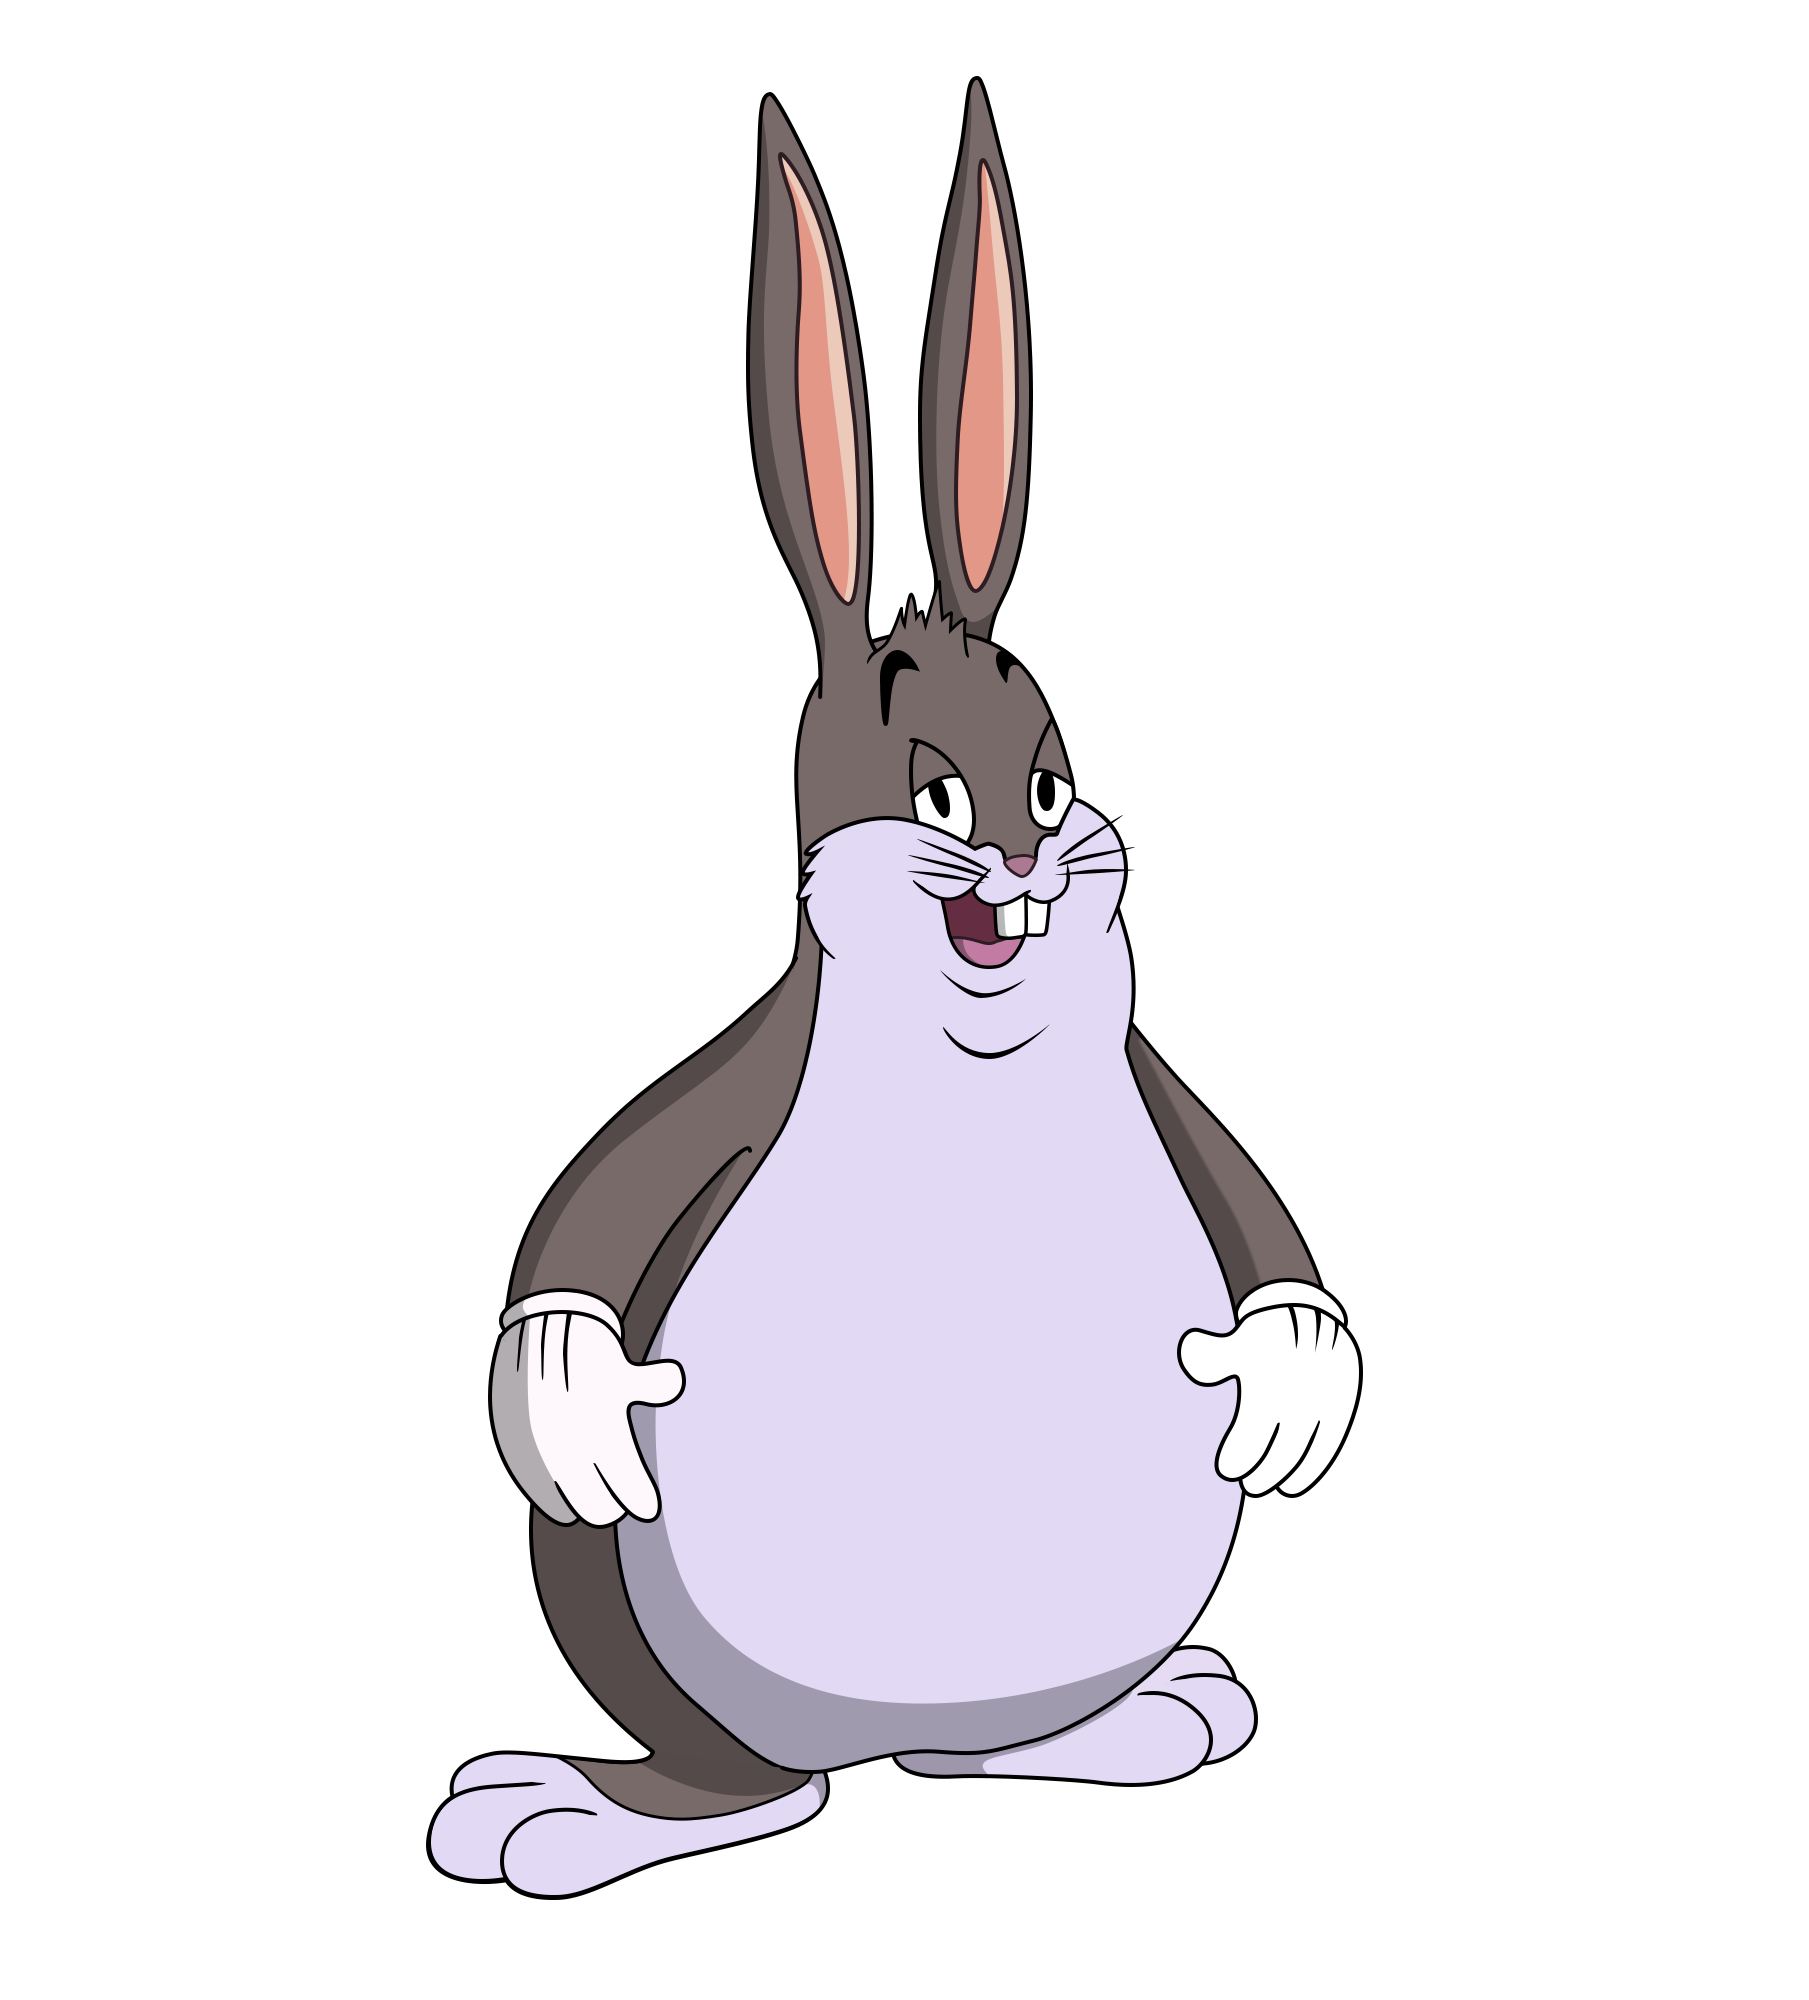
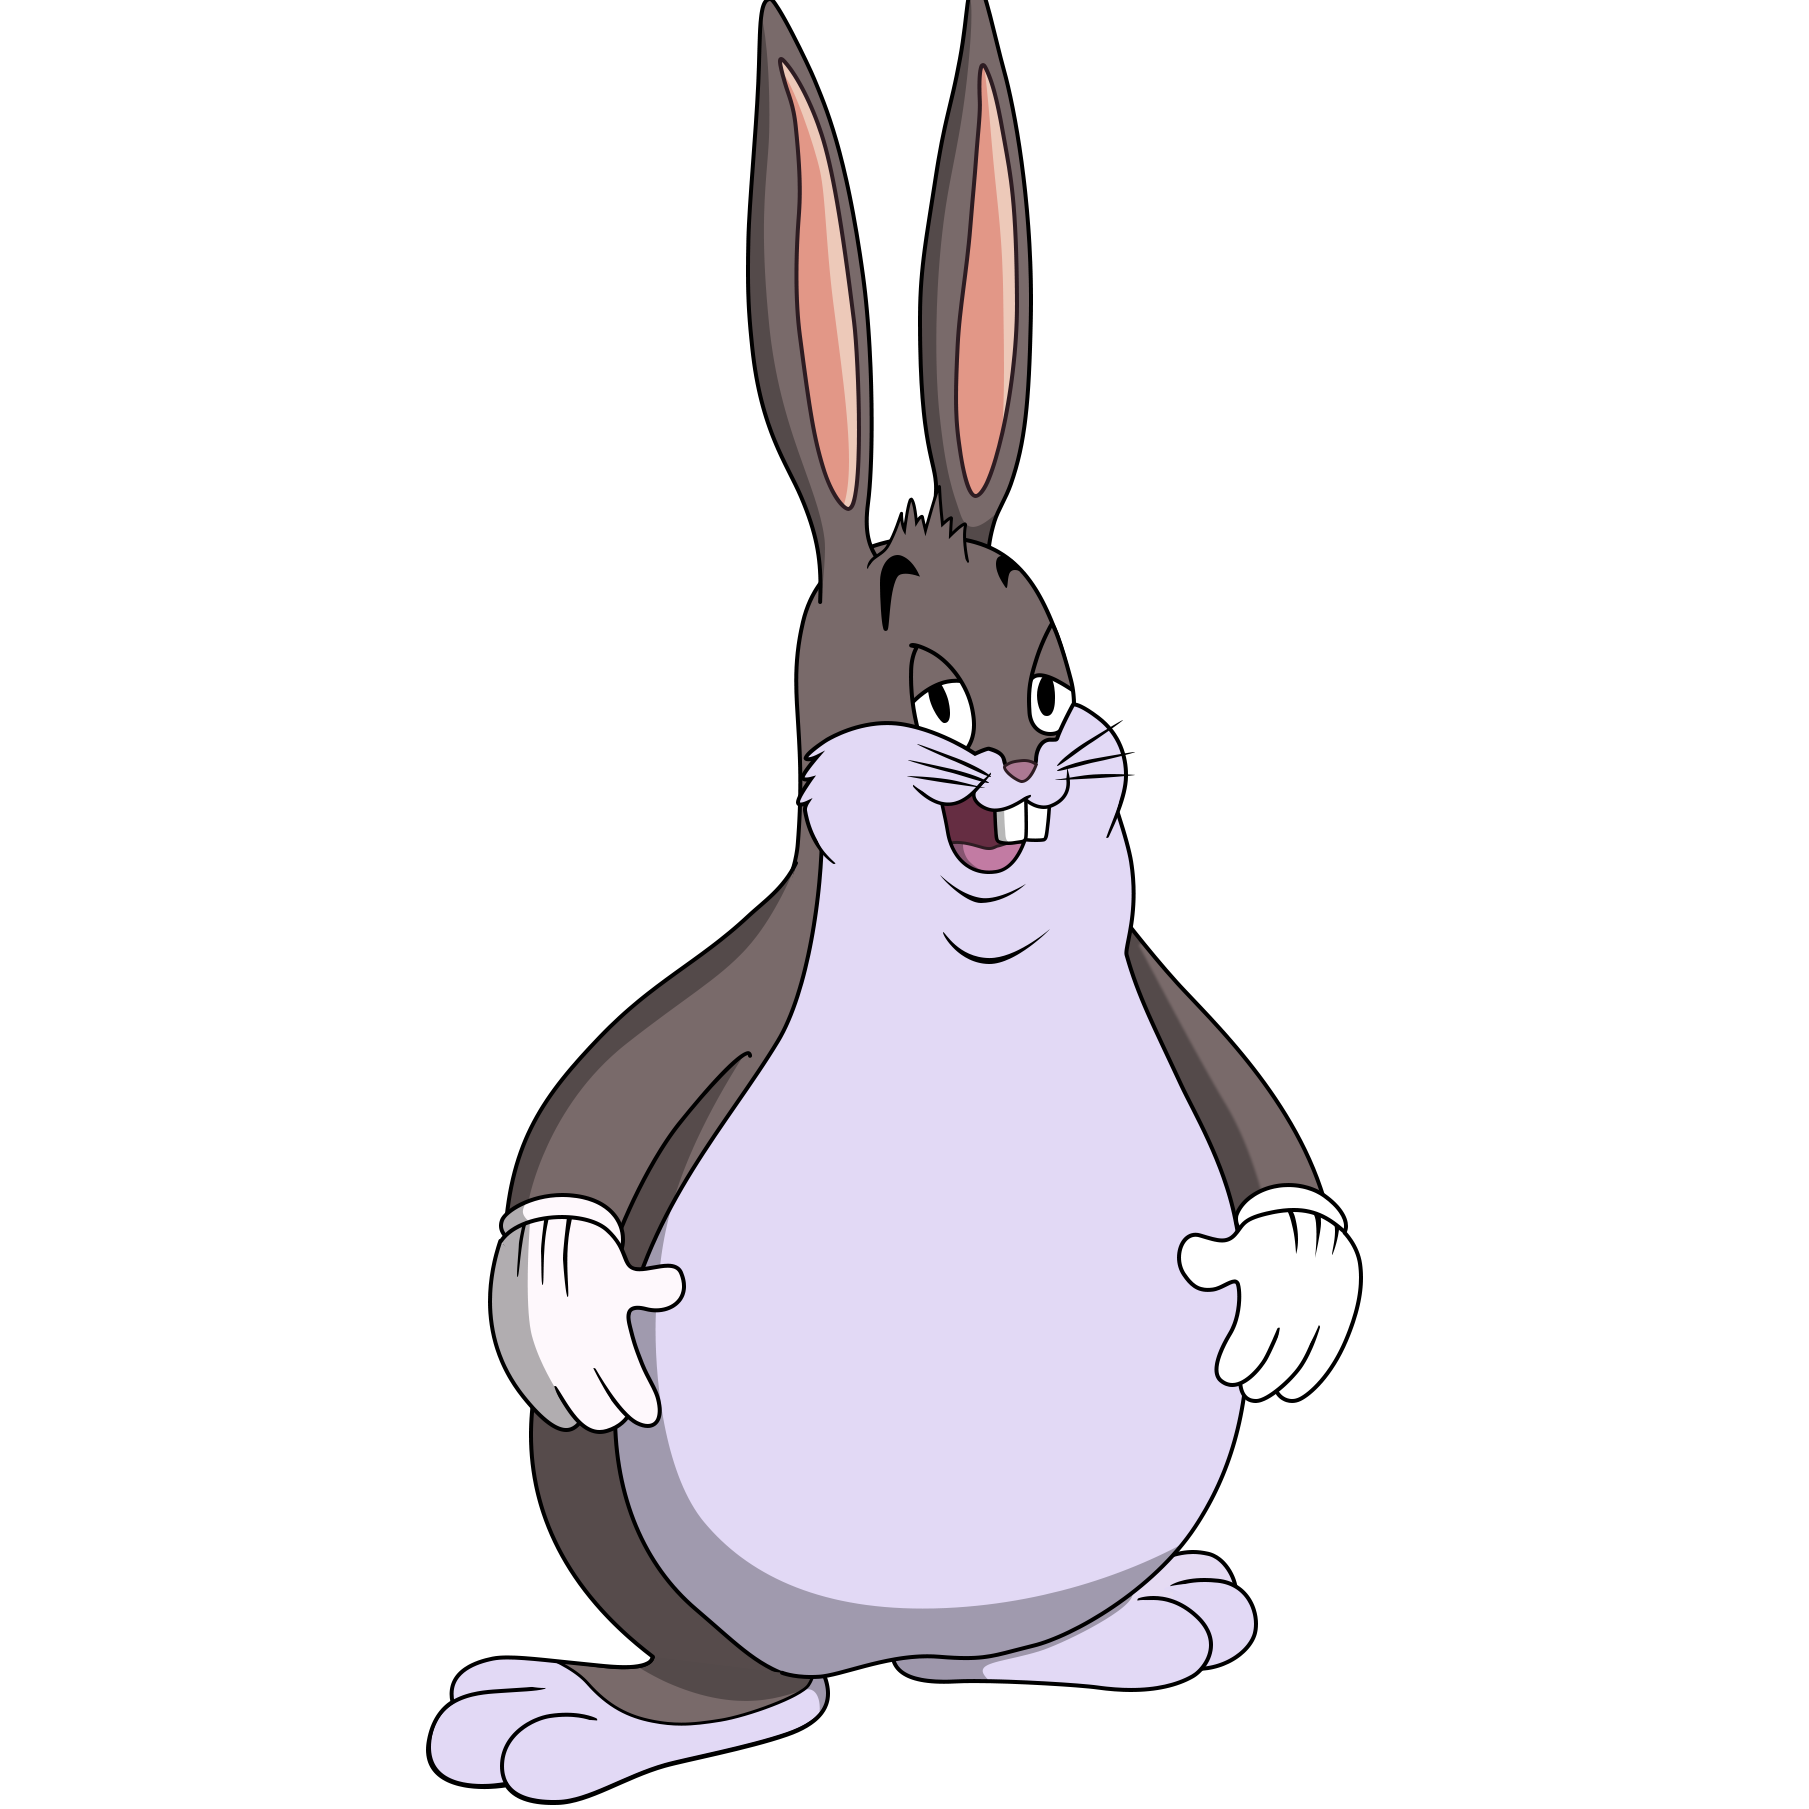
Changed big chungus size, added the coin to the key, still on maze 3

diff --git a/mazeGame.html b/mazeGame.html
@@ -179,6 +179,10 @@
                     <td><img src="images/moving.png"></td>
                     <td><p>This is a moing obstacle which you run into can kill you.</p></td>
                 </tr>
+                <tr>
+                    <td><img src="images/coin.gif"></td>
+                    <td><p>Collect coins to earn 25 points</p></td>
+                </tr>
             </table>
         </div>
 

diff --git a/css/maze.css b/css/maze.css
@@ -151,7 +151,7 @@ td.player
 td.coin
 {
     background-color: rgb(235, 255, 59);
-    background-image: url("images/coinp.gif");
+
 }
 
 #gameInfo
